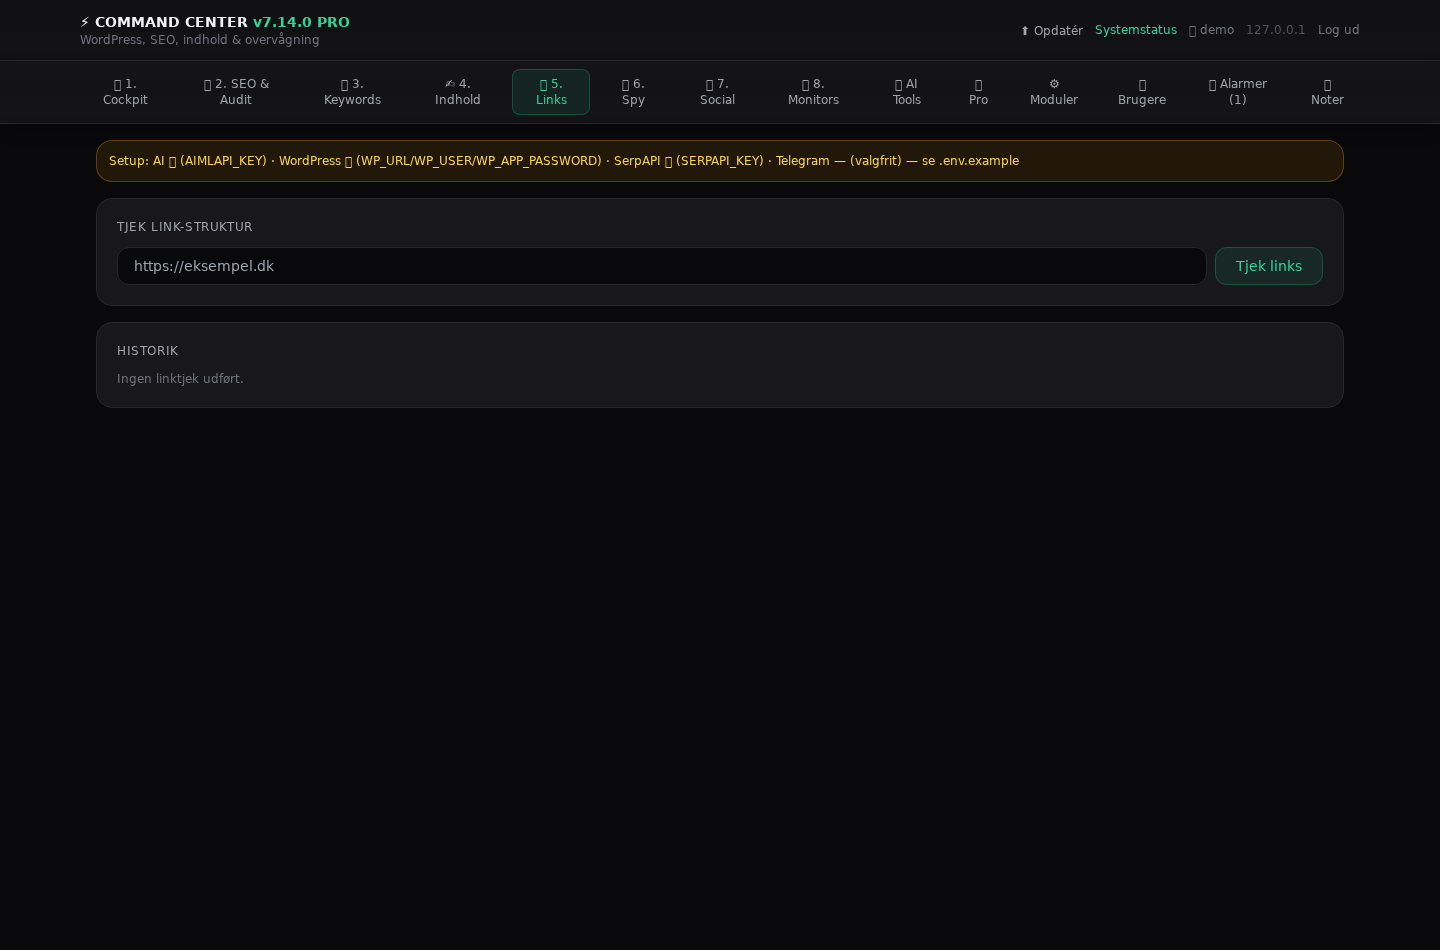
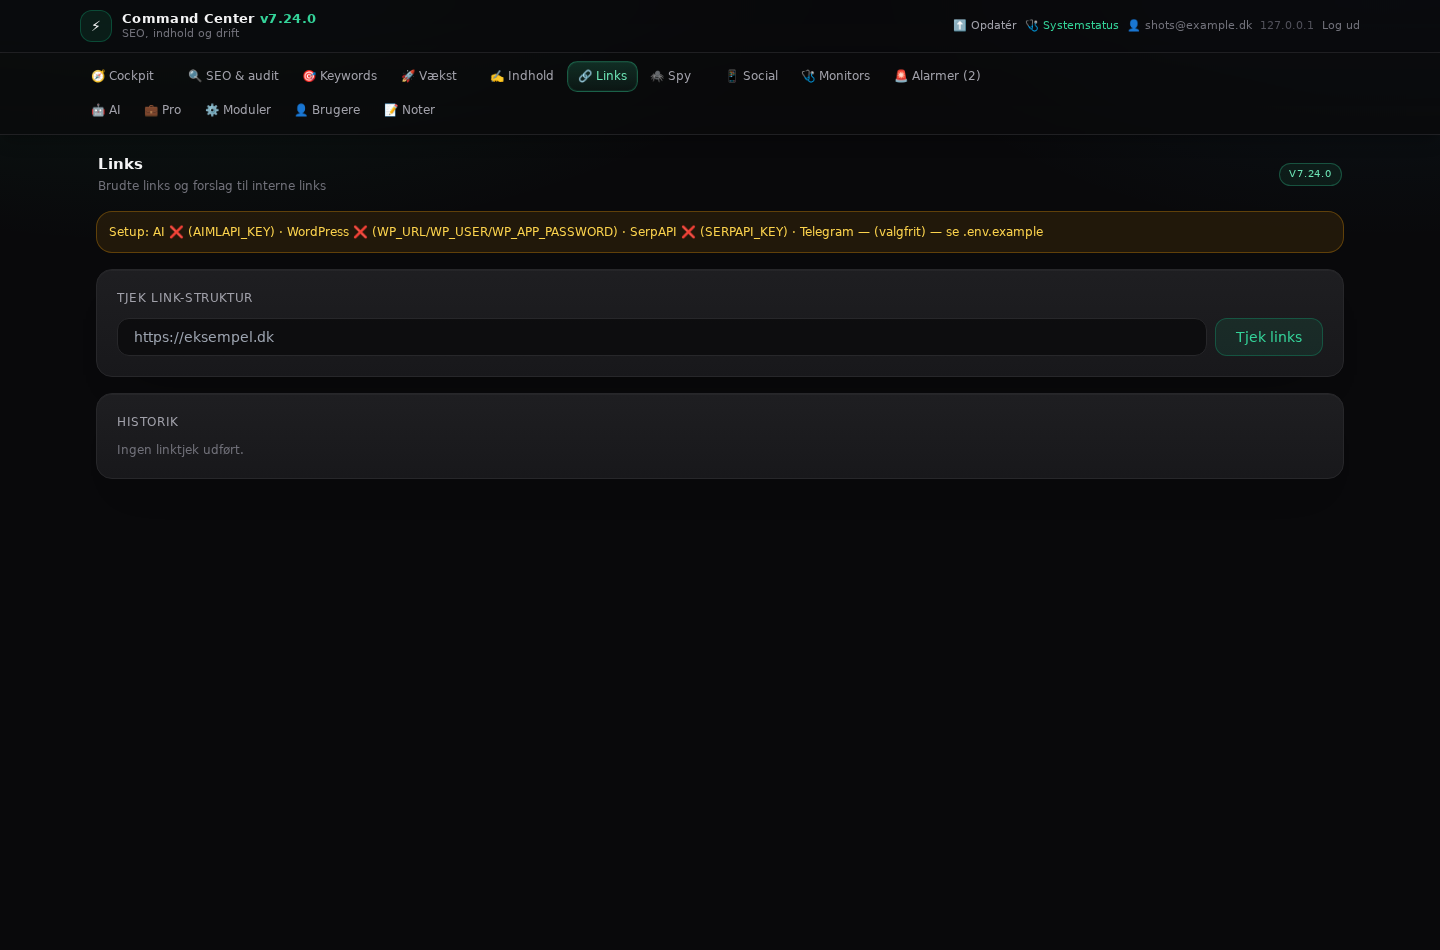
Genopfrisk docs/img til v7.24-UI'et og lad fane-bjaelken ombryde
Billederne i docs/img viste v7.14-UI'et med numre i navigationen, saa
CI's screenshots-advarsel var reel. Alle 16 billeder er nu taget mod den
koerende v7.24 med scripts/screenshots.py, og vaekst-fanen er fotograferet
for foerste gang.

Under optagelsen blev en reel desktop-fejl synlig: ved 1440 px klippede
fane-bjaelken 'Noter', og der stod en loes skillelinje tilbage. Bjaelken
ombryder nu til to linjer over 640 px, grupperne har faaet afstand i
stedet for lodrette streger, og mobil beholder vandret scroll.

CLAUDE.md beskriver nu hvordan headless Chromium bringes i stand i en
container uden root: .deb-pakkerne hentes via Packages-indexet og udpakkes
lokalt, og fontconfig-config skal med, ellers bliver al braedtekst tofu.

CI og unit-tests: ALL PASS (95/251 checks), install.sh 3/3 paritet.

🤖 Generated with Codebuff

diff --git a/app/templates/dashboard.html b/app/templates/dashboard.html
@@ -28,6 +28,7 @@
       @media (prefers-reduced-motion: reduce) { * { animation: none !important; transition: none !important; } }
       @media (max-width: 640px) {
         .cc-tabbar .cc-pill { display: none; }
+        .cc-nav-inner { flex-wrap: nowrap; }
         .cc-hero { padding: .9rem 1rem; }
         .cc-hero-stats { width: 100%; justify-content: space-between; gap: .9rem; }
         .cc-hero-stats b { font-size: 1rem; }
@@ -66,13 +67,14 @@
         outline: none;
       }
       main button:hover { filter: brightness(1.12); }
-      .cc-nav-link { display:inline-flex; align-items:center; gap:.35rem; white-space:nowrap; padding:.38rem .68rem;
+      .cc-nav-inner { flex-wrap: wrap; row-gap: .22rem; padding-block: .12rem; }
+      .cc-nav-link { display:inline-flex; align-items:center; gap:.35rem; white-space:nowrap; padding:.36rem .62rem;
         border-radius:.65rem; font-size:.72rem; color:#a1a1aa; border:1px solid transparent; }
       .cc-nav-link:hover { color:#e4e4e7; background:rgba(63,63,70,.35); }
       .cc-nav-link.is-active { color:#6ee7b7; background:linear-gradient(180deg, rgba(52,211,153,.18), rgba(52,211,153,.06));
         border-color: rgba(52,211,153,.32); box-shadow: inset 0 0 0 1px rgba(52,211,153,.08); }
-      .cc-nav-group { display:flex; align-items:center; gap:.1rem; padding-right:.45rem; margin-right:.35rem; border-right:1px solid var(--cc-line); }
-      .cc-nav-group:last-child { border-right:0; }
+      .cc-nav-group { display:flex; align-items:center; gap:.1rem; margin-right:.5rem; }
+      .cc-nav-group:last-child { margin-right:0; }
       .cc-card-head { display:flex; align-items:flex-start; justify-content:space-between; gap:.75rem; margin-bottom:.9rem; }
       .cc-card-title { font-size:.7rem; text-transform:uppercase; letter-spacing:.12em; color:#d4d4d8; font-weight:600; }
       .cc-card-sub { font-size:.72rem; color:#71717a; margin-top:.3rem; max-width:60ch; line-height:1.55; }
@@ -155,7 +157,7 @@
     </div>
 </header>
 <nav class="sticky top-0 z-50 border-b border-zinc-800/80 bg-zinc-950/75 px-3 py-1.5 shadow-lg shadow-black/20">
-    <div class="max-w-7xl mx-auto flex items-center gap-1 overflow-x-auto">
+    <div class="max-w-7xl mx-auto cc-nav-inner flex items-center gap-1 overflow-x-auto">
         <div class="cc-nav-group">
             <button @click="tab='cockpit'" class="cc-nav-link" :class="tab==='cockpit' && 'is-active'">🧭 Cockpit</button>
         </div>

diff --git a/CLAUDE.md b/CLAUDE.md
@@ -479,6 +479,14 @@ kørte grønt på `627cd87`. CI tjekker desuden at alle 17 indlejrede filer i `i
   intet `/etc/fonts`, saa Skia aborterer med `FATAL: SkFontMgr_FontConfigInterface.cpp:163 Not
   implemented` (SIGTRAP). Loesning: lav en `fonts.conf` med `<dir>` (DejaVu/Noto) + `<cachedir>` og
   saet `FONTCONFIG_FILE`/`FONTCONFIG_PATH`. Derefter kan alle 15 faner fotograferes headless.
+- Containeren kan mangle baade `/etc/fonts` **og** de delte biblioteker (libfontconfig, libnspr4,
+  libnss3, libatk*, libxkbcommon m.fl.), og der er hverken root eller apt-lister. Uden root: hent
+  `.deb`-filerne via Packages-indexet (`archive.ubuntu.com/ubuntu/dists/noble/{main,universe}/
+  binary-amd64/Packages.gz`), udpak med `dpkg -x` i en lokal mappe og saet `LD_LIBRARY_PATH` samt
+  `FONTCONFIG_PATH`/`FONTCONFIG_FILE` til den udpakkede `fontconfig-config`. Bruger man kun en egen
+  `fonts.conf` uden `conf.d` fra `fontconfig-config`, bliver al braedtekst tofu, mens fed tekst tegnes
+  korrekt - det ser ud som en app-fejl, men er font-matching. `fonts-dejavu-core` + `fonts-liberation`
+  + `fonts-noto-color-emoji` giver baade dansk tekst og farve-emoji paa billederne.
 - Mangler der en emoji-font i det saet, bliver emoji i UI'et tomme kasser paa billederne. Det er kun
   kosmetisk - layout og tekst er korrekt.
 
